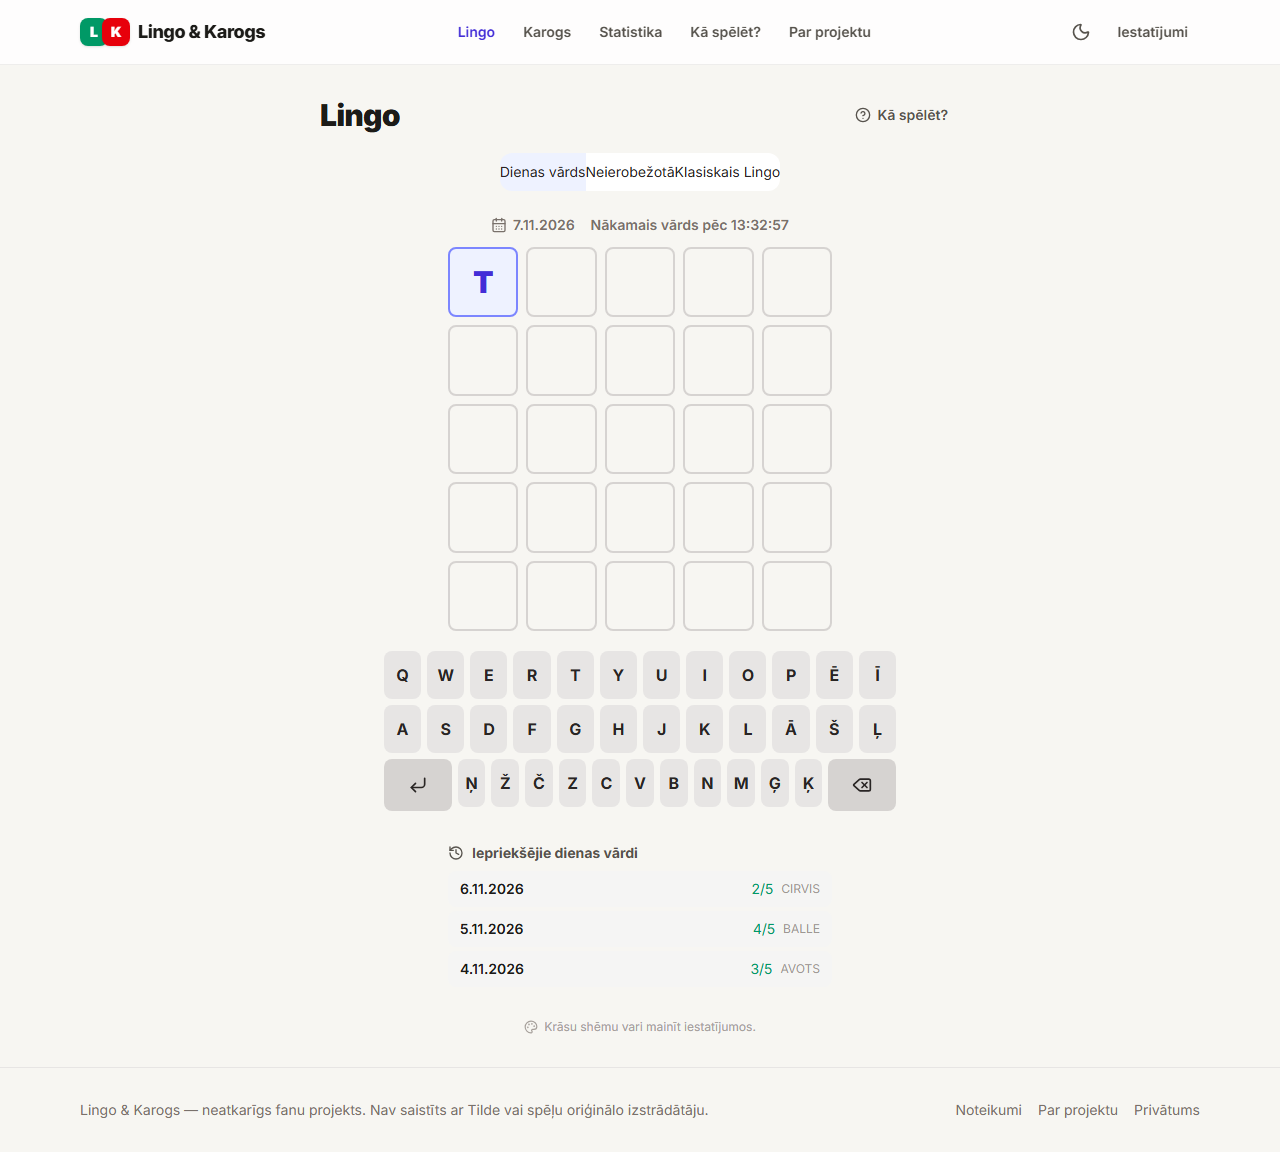
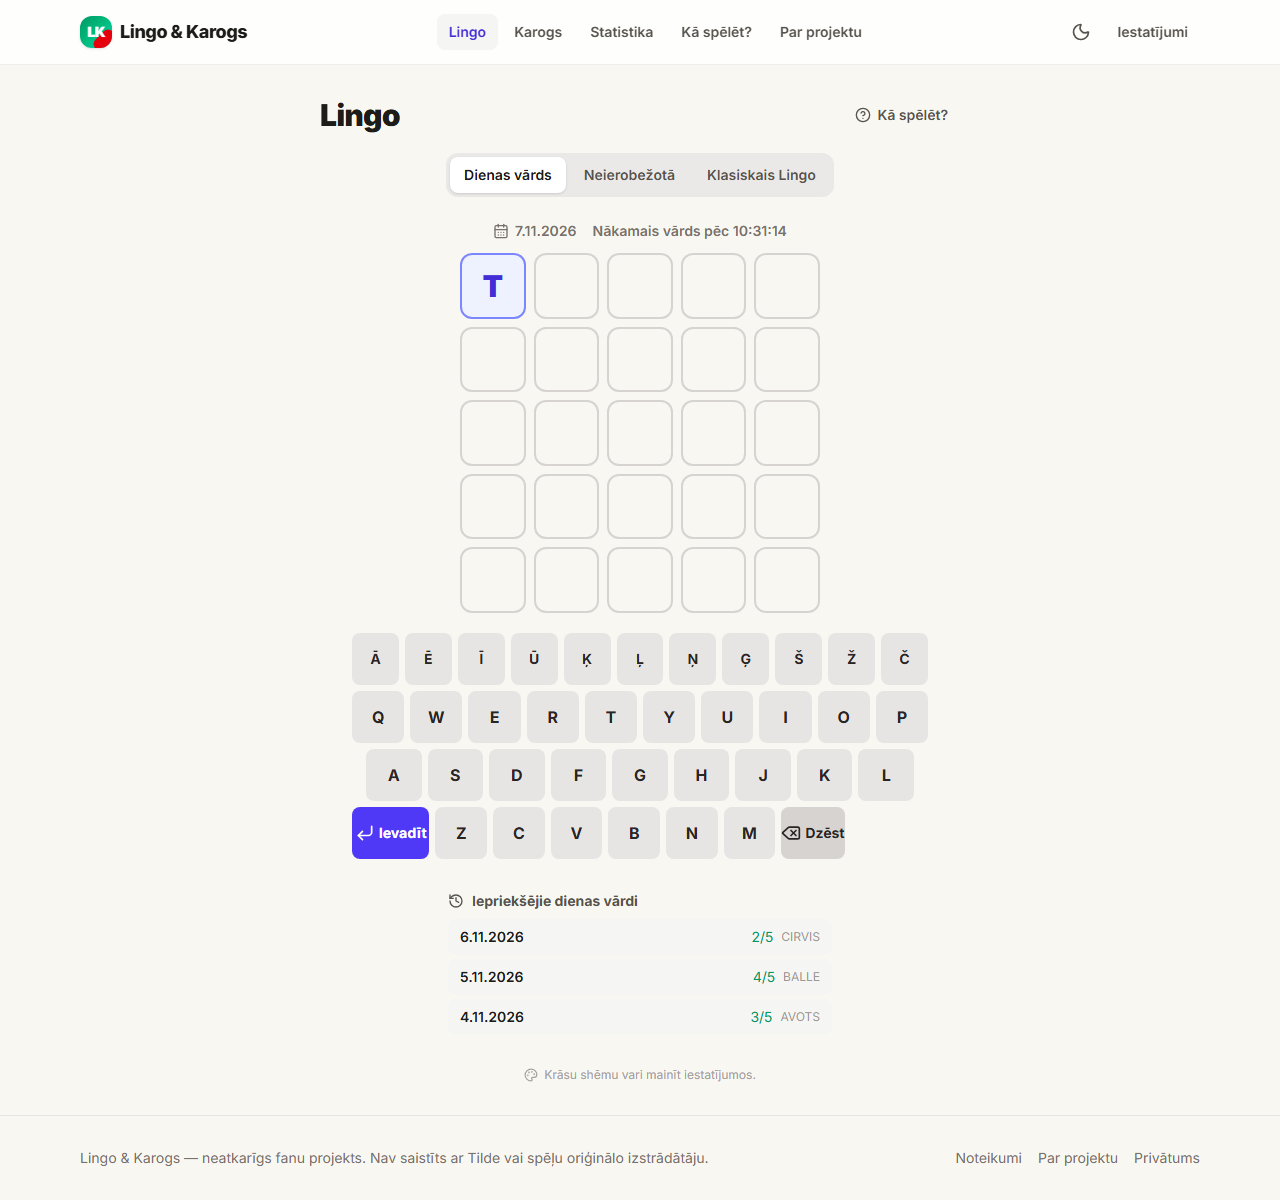
V1.2: geometry tests, reviewed visual baselines, docs, screenshots and version 1.2.0
- Geometry E2E suite (mode-label gaps, nickname input height, overflow,
  board interactivity, dialog fit) at 320/375/1280px.
- Fix online-availability check so the lobby form shows whenever the
  multiplayer backend is available (sqlite tests) and only hides when
  explicitly disabled.
- Enemy-colored face-down tokens and last-move pop animation.
- Regenerate visual baselines after the reviewed redesign (guarded by
  geometry + axe suites); capture desktop/mobile release screenshots.
- Docs: UX audit, design system, asset licenses, release notes; README
  and version bumped to 1.2.0.

diff --git a/e2e/geometry.spec.ts b/e2e/geometry.spec.ts
@@ -1,0 +1,89 @@
+import { expect, test } from "@playwright/test";
+import { assertNoHorizontalOverflow, skipOnboarding } from "./helpers";
+
+async function adjacentGaps(locator: ReturnType<import("@playwright/test").Page["getByRole"]>) {
+  const count = await locator.count();
+  const boxes = [];
+  for (let i = 0; i < count; i++) boxes.push(await locator.nth(i).boundingBox());
+  const gaps: number[] = [];
+  for (let i = 1; i < boxes.length; i++) {
+    const a = boxes[i - 1];
+    const b = boxes[i];
+    if (!a || !b) continue;
+    const stacked = a.y + a.height <= b.y + 1;
+    const gap = stacked
+      ? b.y - (a.y + a.height)
+      : b.x - (a.x + a.width);
+    gaps.push(Math.round(gap * 10) / 10);
+  }
+  return gaps;
+}
+
+const VIEWPORTS = [
+  { name: "320px", width: 320, height: 667 },
+  { name: "375px", width: 375, height: 812 },
+  { name: "desktop", width: 1280, height: 900 },
+];
+
+for (const viewport of VIEWPORTS) {
+  test.describe(`geometry at ${viewport.name}`, () => {
+    test.use({ viewport: { width: viewport.width, height: viewport.height } });
+
+    test("Lingo mode labels are separated and readable", async ({ page }) => {
+      await page.goto("/lingo");
+      await skipOnboarding(page);
+      const gaps = await adjacentGaps(page.locator('button[role="radio"]'));
+      expect(gaps.length).toBeGreaterThanOrEqual(2);
+      for (const gap of gaps) expect(gap).toBeGreaterThanOrEqual(4);
+    });
+
+    test("Karogs mode cards do not overlap", async ({ page }) => {
+      await page.goto("/karogs");
+      await skipOnboarding(page);
+      const gaps = await adjacentGaps(page.getByRole("radiogroup").first().locator("button"));
+      for (const gap of gaps) expect(gap).toBeGreaterThanOrEqual(0);
+    });
+
+    test("nickname input has a normal height", async ({ page }) => {
+      await page.goto("/karogs");
+      await skipOnboarding(page);
+      await page.getByRole("radio", { name: /Spēlēt ar draugu/ }).click();
+      const input = page.getByPlaceholder("Spēlētājs").first();
+      await expect(input).toBeVisible();
+      const box = await input.boundingBox();
+      expect(box).not.toBeNull();
+      expect(box!.height).toBeGreaterThanOrEqual(38);
+      expect(box!.height).toBeLessThanOrEqual(56);
+    });
+
+    test("no horizontal overflow on core routes", async ({ page }) => {
+      for (const route of ["/", "/lingo", "/karogs", "/iestatijumi", "/statistika"]) {
+        await page.goto(route);
+        await skipOnboarding(page);
+        await assertNoHorizontalOverflow(page);
+      }
+    });
+
+    test("board is visible and interactive", async ({ page }) => {
+      await page.goto("/karogs");
+      await skipOnboarding(page);
+      await expect(page.getByText("40/40")).toBeVisible();
+      const grid = page.getByRole("grid", { name: /Tavs izvietojums/ });
+      await expect(grid).toBeVisible();
+      await grid.getByRole("gridcell").first().click();
+    });
+  });
+}
+
+test("dialogs fit the mobile viewport", async ({ page }) => {
+  await page.setViewportSize({ width: 320, height: 568 });
+  await page.goto("/iestatijumi");
+  await page.getByRole("button", { name: "Dzēst visus vietējos datus" }).click();
+  const dialog = page.getByRole("dialog");
+  await expect(dialog).toBeVisible();
+  const box = await dialog.boundingBox();
+  expect(box).not.toBeNull();
+  expect(box!.width).toBeLessThanOrEqual(320);
+  expect(box!.y).toBeGreaterThanOrEqual(0);
+  expect(box!.y + box!.height).toBeLessThanOrEqual(568);
+});

diff --git a/src/components/karogs/PieceIcon.tsx b/src/components/karogs/PieceIcon.tsx
@@ -25,23 +25,25 @@ export const PieceIcon = memo(function PieceIcon({
   if (!piece) return null;
 
   if ("hidden" in piece) {
+    const main = SIDE_MAIN[piece.owner] ?? "#57534e";
+    const edge = SIDE_EDGE[piece.owner] ?? "#292524";
     return (
       <svg viewBox="0 0 36 36" width={size} height={size} aria-hidden>
         <defs>
           <radialGradient id={gradientId} cx="35%" cy="30%" r="80%">
-            <stop offset="0%" stopColor="#78716c" />
-            <stop offset="100%" stopColor="#292524" />
+            <stop offset="0%" stopColor={main} />
+            <stop offset="100%" stopColor={edge} />
           </radialGradient>
         </defs>
-        <circle cx="18" cy="18" r="15" fill={`url(#${gradientId})`} stroke="#0c0a09" strokeWidth="2" />
-        <circle cx="18" cy="18" r="11.5" fill="none" stroke="#d6d3d1" strokeWidth="1.2" strokeDasharray="3 2" />
+        <circle cx="18" cy="18" r="15" fill={`url(#${gradientId})`} stroke={edge} strokeWidth="2" />
+        <circle cx="18" cy="18" r="11.5" fill="none" stroke="rgba(255,255,255,0.45)" strokeWidth="1.4" strokeDasharray="3 2" />
         <text
           x="18"
           y="24"
           textAnchor="middle"
           fontSize="15"
           fontWeight="800"
-          fill="#f5f5f4"
+          fill="#ffffff"
           fontFamily="Arial, sans-serif"
         >
           ?

diff --git a/src/components/karogs/KarogsBoard.tsx b/src/components/karogs/KarogsBoard.tsx
@@ -126,7 +126,7 @@ export const KarogsBoard = memo(function KarogsBoard({
                         : "bg-[#f4eedd] shadow-[inset_0_1px_0_rgba(255,255,255,0.6)] dark:bg-stone-800 dark:shadow-[inset_0_1px_0_rgba(255,255,255,0.06)]",
                       !lake && !disabled && "hover:bg-[#efe6cc] dark:hover:bg-stone-700",
                       isSelected && "z-10 ring-2 ring-indigo-500 ring-offset-1 ring-offset-stone-400 dark:ring-indigo-400 dark:ring-offset-stone-950",
-                      isLast && !isSelected && "bg-amber-200 dark:bg-amber-900/60",
+                  isLast && !isSelected && "animate-[pop_0.3s_ease-out] bg-amber-200 dark:bg-amber-900/60",
                       disabled && !lake && "opacity-90",
                     )}
                   >

diff --git a/e2e/visual.spec.ts b/e2e/visual.spec.ts
@@ -32,6 +32,7 @@ test.describe("visual regression", () => {
   test("karogs formation picker and board", async ({ page }) => {
     await page.goto("/karogs");
     await skipOnboarding(page);
+    await page.getByRole("button", { name: "Izvēlēties formāciju" }).click();
     await page.getByRole("button", { name: /Sabalansētā/ }).first().click();
     await expect(page.getByText("40/40")).toBeVisible();
     await expect(page.getByRole("grid", { name: /Tavs izvietojums/ })).toHaveScreenshot(

diff --git a/src/components/karogs/FormationPicker.tsx b/src/components/karogs/FormationPicker.tsx
@@ -51,7 +51,10 @@ export const FormationPicker = memo(function FormationPicker({
   onApply: (id: string) => void;
 }) {
   return (
-    <div className="grid grid-cols-1 gap-2.5 sm:grid-cols-2">
+    <div
+      aria-label="Gatavās formācijas"
+      className="grid grid-cols-1 gap-2.5 sm:grid-cols-2"
+    >
       {ALL.map((formation) => {
         const selected = selectedId === formation.id;
         const random = formation.id === RANDOM_FORMATION.id;

diff --git a/e2e/a11y.spec.ts b/e2e/a11y.spec.ts
@@ -24,6 +24,7 @@ for (const viewport of VIEWPORTS) {
         await page.goto(route);
         await skipOnboarding(page);
         if (route === "/karogs") {
+          await page.getByRole("button", { name: "Izvēlēties formāciju" }).click();
           await page.getByRole("button", { name: /Sabalansētā/ }).first().click();
         }
         const results = await new AxeBuilder({ page })

diff --git a/src/components/karogs/OnlineGame.tsx b/src/components/karogs/OnlineGame.tsx
@@ -138,7 +138,7 @@ export function OnlineGame({ initialCode }: { initialCode?: string }) {
   useEffect(() => {
     fetch("/api/health")
       .then((r) => r.json())
-      .then((h) => setOnlineDisabled(h?.multiplayer?.mode !== "supabase"))
+      .then((h) => setOnlineDisabled(h?.multiplayer?.available === false))
       .catch(() => undefined);
   }, []);
 

diff --git a/src/styles/globals.css b/src/styles/globals.css
@@ -91,6 +91,18 @@ body {
   color: var(--foreground);
 }
 
+@keyframes pop {
+  0% {
+    transform: scale(0.9);
+  }
+  60% {
+    transform: scale(1.04);
+  }
+  100% {
+    transform: scale(1);
+  }
+}
+
 @media (prefers-reduced-motion: reduce) {
   *,
   *::before,

diff --git a/docs/UX_AUDIT_V1.2.md b/docs/UX_AUDIT_V1.2.md
@@ -1,0 +1,33 @@
+# UX audits V1.2
+
+Measurement-driven audits performed with a real Chromium browser
+(`scripts/audit-ux.mjs` + Playwright geometry probes) before and after the
+V1.2 redesign. Screenshots from the audit runs live in
+`docs/screenshots/v1.2/audit/`.
+
+## Before V1.2 — defects found
+
+| Severity | Area | Finding | Root cause |
+|---|---|---|---|
+| Critical | Shared components | Nickname input rendered 264px tall; card padding became 120px; dialogs inflated | Web Awesome `wa-card` / `wa-dialog` `:host` styles redefine `--spacing: var(--wa-space-l)` (24px). Tailwind's spacing utilities (`h-11`, `px-3`, `p-5`, `space-y-*`) resolve against `--spacing`, so every spacing value inside WA cards/dialogs multiplied by 6. |
+| Critical | Settings / Statistics | Horizontal overflow 164–716px on 320–430px screens | Same `--spacing` corruption bloated cards and gaps beyond the viewport. |
+| High | Lingo mode selector | Tab labels touched (0px gap), 14px text, WA radio-button appearance | Replaced by native, accessible segmented control with 4px gaps and roomier padding. |
+| High | Lingo keyboard | Smallest key 12px wide at 320px (a sliver) | One flex row packed 13 keys; additionally the V1.2 grid fix exposed a spacer-track bug where the `a` key landed in a 0.5fr track. New layout: dedicated diacritics row, ≥22px keys at 320px. |
+| High | Lingo input | The same word could be submitted repeatedly; input was retained across rounds | `use-guess-input` never cleared the buffer after submission; the engine had no duplicate guard. Fixed with explicit accept/reject semantics and a `duplicate-word` engine error. |
+| High | Homepage / Settings | React hydration mismatches ("server rendered HTML didn't match") | Components read localStorage during render. Fixed by deferring storage reads until after mount. |
+| High | Karogs setup | Desktop drag-and-drop did not work | Tray buttons were HTML5 `draggable`; a native drag captured the pointer stream so the board never received `pointerup`. The drop handler also read stale React selection state instead of the dragged piece. |
+| Medium | Karogs onboarding | Dense 40-piece manual setup was the default experience | Fresh visits now auto-fill a balanced formation; manual customization is hidden behind "Pielāgot izvietojumu". |
+| Medium | Karogs AI | Resume of old sessions felt like a stuck game | Resume notice with "Turpināt spēli" / "Jauna spēle" choices. |
+| Medium | Online play | Unavailable multiplayer showed a create-room form that failed with 503 | Polished "pagaidām nav pieejama" state driven by `/api/health`. |
+| Medium | Statistics | Dense dashboard, no empty state | Empty-state call-to-action, overflow-safe bars, min-width guards. |
+| Medium | Landscape phones | Board taller than a 320px viewport | Acceptable scrolling compromise; vertical gaps tightened on small screens. |
+
+## After V1.2 — verified results
+
+- Mode-selector gaps ≥4px, zero overlaps at 320/375/1280px (geometry E2E).
+- Nickname input height 38–56px at all tested viewports (geometry E2E).
+- Zero horizontal overflow on `/`, `/lingo`, `/karogs`, `/iestatijumi`,
+  `/statistika` at 320–1920px (audit + geometry E2E).
+- Keyboard keys ≥22px wide at 320px; full Latvian alphabet accessible.
+- axe: zero critical/serious violations across 7 routes × 2 viewports.
+- Zero console errors in production smoke tests.

diff --git a/docs/RELEASE_V1.2.md b/docs/RELEASE_V1.2.md
@@ -1,0 +1,41 @@
+# Lingo & Karogs V1.2 — release notes
+
+## Highlights
+
+- **Web Awesome defect fixed.** WA `wa-card`/`wa-dialog` host styles were
+  redefining Tailwind's `--spacing` token, multiplying every spacing value
+  inside cards and dialogs by six (264px inputs, 120px card padding, huge
+  dialogs, mobile overflow). Shared controls returned to native, accessible
+  implementations; WA remains only for dialogs, toasts and progress bars with
+  the token pinned back.
+- **Lingo input repaired.** Accepted guesses now clear synchronously;
+  duplicate words are rejected with "Šo vārdu jau mēģināji." without losing an
+  attempt; invalid words stay editable; rapid Enter can no longer double-submit.
+- **Karogs instant play.** A balanced 40-piece army is pre-filled on a fresh
+  visit; "Sākt kauju" works immediately. Formation picker and manual
+  customization live behind collapsible panels, drag-and-drop actually works
+  (drops use the dragged piece, never stale selection), and the AI game gains
+  a desktop side panel with turn, selected unit and battle log.
+- **Honest saved-state UX.** Schema-versioned game saves with validation,
+  legacy migration and per-key recovery; settings list every saved game with
+  continue/delete actions; completed games always offer a new game.
+- **Polish.** New 4-row Latvian keyboard (≥22px keys at 320px), readable mode
+  cards, warm/graphite theme tokens, enemy-colored face-down pieces, stats
+  empty state, polished unavailable-online state, fixed hydration mismatches.
+
+## Tests
+
+- Vitest: 97 unit/integration tests (engines, AI, data, multiplayer,
+  formations, storage envelope).
+- Playwright: 59 scenarios — functional (Lingo/Karogs/multiplayer),
+  responsive, geometry, axe accessibility (zero critical/serious) and visual
+  regression with reviewed baselines.
+- Production smoke: 9/9 checks against the live deployment.
+
+## Known limitations
+
+- Online multiplayer remains disabled in production until Supabase
+  credentials are configured in the Vercel project (see README).
+- 320px boards use a compact keyboard (≈22px keys) and zoom/pan for Karogs;
+  full-size touch targets are not physically possible at that width.
+- Landscape phones scroll vertically; that is intentional.

diff --git a/README.md b/README.md
@@ -42,6 +42,8 @@ oriģinālo izstrādātāju.
 - **Gatavās formācijas** — pieci pārdomāti sākuma izvietojumi ar vizuāliem
   priekšskatiem, viena pieskāriena spēles sākums, brīva pārveidošana un
   paša saglabātu formāciju izmantošana pret datoru, uz vietas un tiešsaistē.
+  Pirmajā apmeklējumā armija jau ir izvietota — **Sākt kauju** darbojas
+  uzreiz, savukārt formācijas un manuālā pielāgošana ir pieejama pēc izvēles.
 - Klasiskais 10×10 laukums, divi ezeri, 40 figūras katrā armijā, izlūki,
   mīnētāji, bumbas, spiegs, karogs — pilns noteikumu kopums.
 
@@ -50,9 +52,9 @@ oriģinālo izstrādātāju.
 - Statistika, sērijas, sasniegumi un spēļu vēsture (lokāli, bez konta).
 - Gaišā/tumšā tēma, mobilais skārienjutīgais izkārtojums, skaņas efekti,
   interaktīvas pamācības abām spēlēm.
-- UI sistēma veidota uz **Web Awesome** web komponentēm (pogas, dialogi,
-  slēdži, segmentētās vadīklas, paziņojumi) ar SSR/hydration atbalstu Next.js
-  vidē un pielāgotu zīmola tēmu (indigo/stones).
+- Kopīgā UI sistēma: pogas, kartītes un vadīklas ir ātrs un pieejams vietējais
+  React komplekts; **Web Awesome** tiek izmantots tur, kur tas ir vislabākais
+  (dialogi, paziņojumi, progresa joslas) ar pielāgotu zīmola tēmu.
 - Pārzīmētas militāro figūru grafiskās zīmes un kaujas lauka vizuālais stils.
 - Latviešu valodā, bez reģistrācijas.
 
@@ -98,9 +100,9 @@ kontrolei, bet klienti saņem tikai savas puses rediģēto skatu.
 ## Testi
 
 ```bash
-npm test            # Vitest: 88 vienības/integrācijas testi (engines, AI, dati, multiplayer, formācijas)
+npm test            # Vitest: 97 vienības/integrācijas testi (engines, AI, dati, multiplayer, formācijas, saglabāšana)
 npx playwright install chromium
-npm run test:e2e    # Playwright: 38 E2E scenāriji (funkcionālie, a11y, vizuālās regresijas)
+npm run test:e2e    # Playwright: 58 E2E scenāriji (funkcionālie, ģeometrijas, a11y, vizuālās regresijas)
 npm run typecheck
 npm run lint
 ```

diff --git a/docs/DESIGN_SYSTEM.md b/docs/DESIGN_SYSTEM.md
@@ -1,0 +1,49 @@
+# Design system (V1.2)
+
+The interface is built from a small set of tokens and primitives. Web Awesome
+is used only where it excels (dialogs, toasts, progress bars); buttons, cards,
+segmented controls and switches are native, fully accessible React components.
+
+## Tokens (`src/styles/globals.css`)
+
+| Token | Light | Dark |
+|---|---|---|
+| `--background` | `#f8f7f2` warm paper | `#121417` graphite |
+| `--surface` / `--surface-raised` | `#ffffff` | `#1b1e23` / `#23272d` |
+| `--line` | `#e4e1d9` | `#2d3138` |
+| `--foreground` | `#1d1c18` | `#ececea` |
+| `--text-muted` | `#6f6b62` | `#a2a8b0` |
+| Brand | `#4f46e5` indigo | same |
+| Success / Warning / Danger | emerald-600 / amber-400 / red-600 | emerald-400 / amber-400 / red-500 |
+
+Radius: controls `0.5rem`, cards `0.75rem`, panels `1rem`. Shadows stay
+subtle (`shadow-sm`) with layered surfaces instead of heavy outlines.
+
+## Typography
+
+- Font: Inter (self-hosted via `next/font`, OFL).
+- Body 14–16px, secondary text ≥12px, section headings 18–24px.
+- Avoids tiny 10–11px text for gameplay information; uppercase is reserved
+  for word grids and short labels.
+
+## Motion
+
+- Transitions `150ms`; flip/shake/pop keyframes only for gameplay feedback.
+- `prefers-reduced-motion` collapses animations to instant state changes.
+
+## Primitives
+
+- `Button` — native `<button>` (or `<a>` with `href`), variants
+  primary/secondary/ghost/danger/outline, sizes sm/md/lg.
+- `Card` — native surface panel.
+- `Segmented` — native radiogroup with arrow-key navigation.
+- `Switch` — native `role="switch"` toggle.
+- `Dialog` / toast / progress — Web Awesome, with `--spacing` pinned to
+  `0.25rem` inside the dialog host.
+
+## Web Awesome integration note
+
+WA component `:host` styles define `--spacing: var(--wa-space-l)` for their
+own layout. That collides with Tailwind's `--spacing` token, so any WA
+component that hosts slotted Tailwind-styled content must restore
+`--spacing: 0.25rem` on the host (see `src/components/ui/dialog.tsx`).
